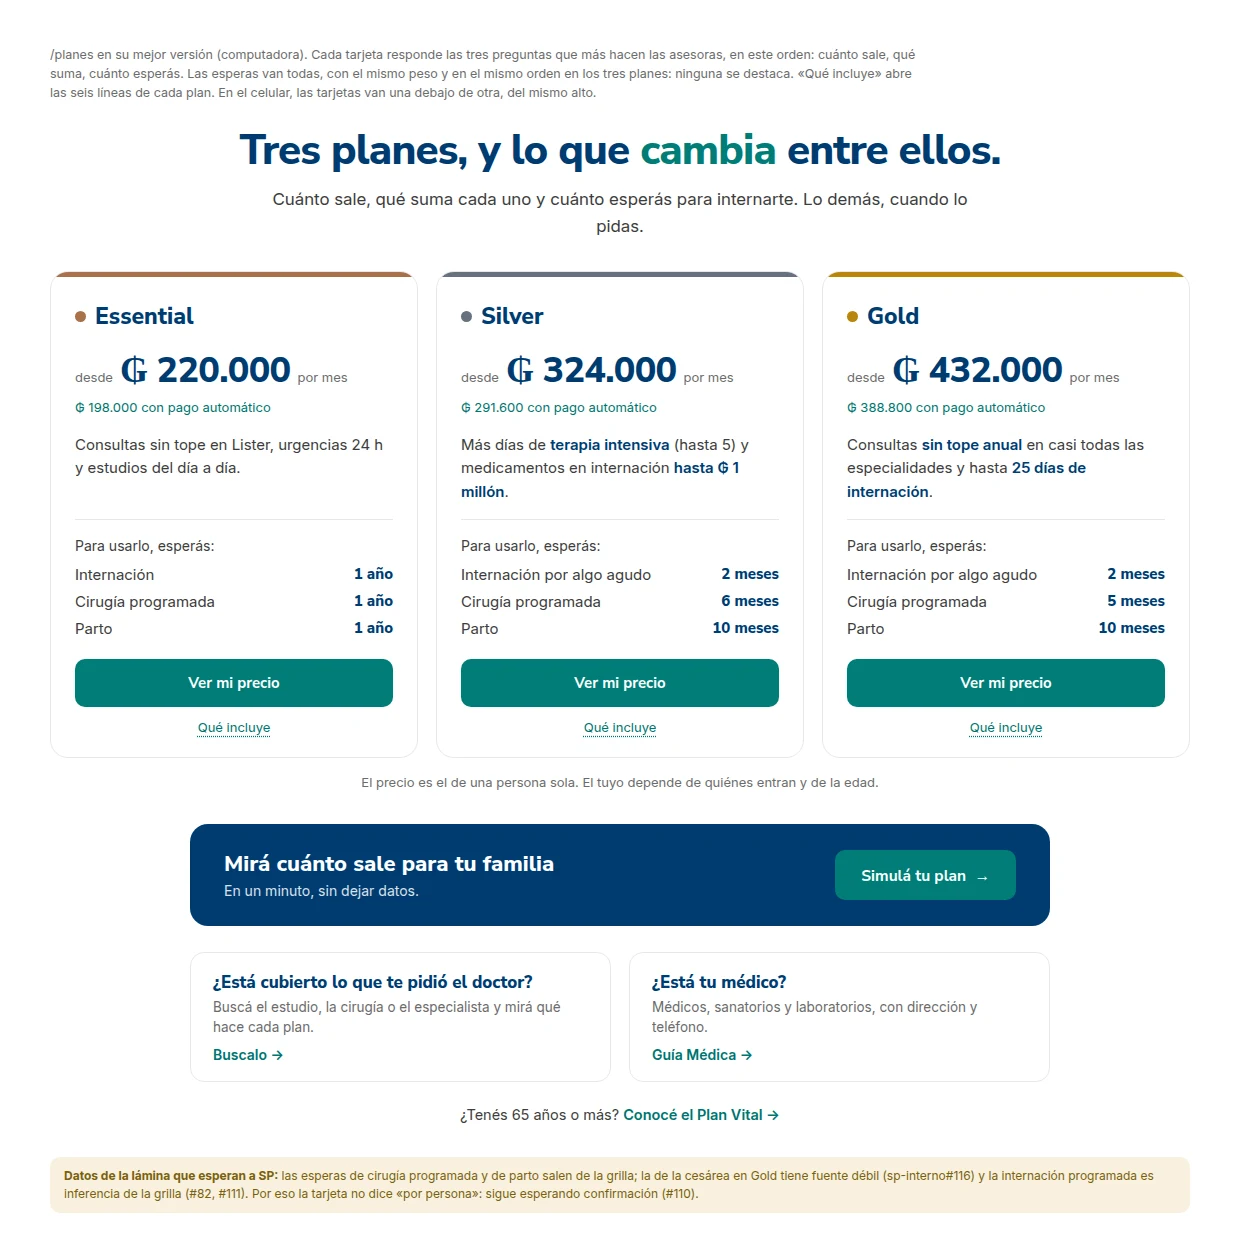
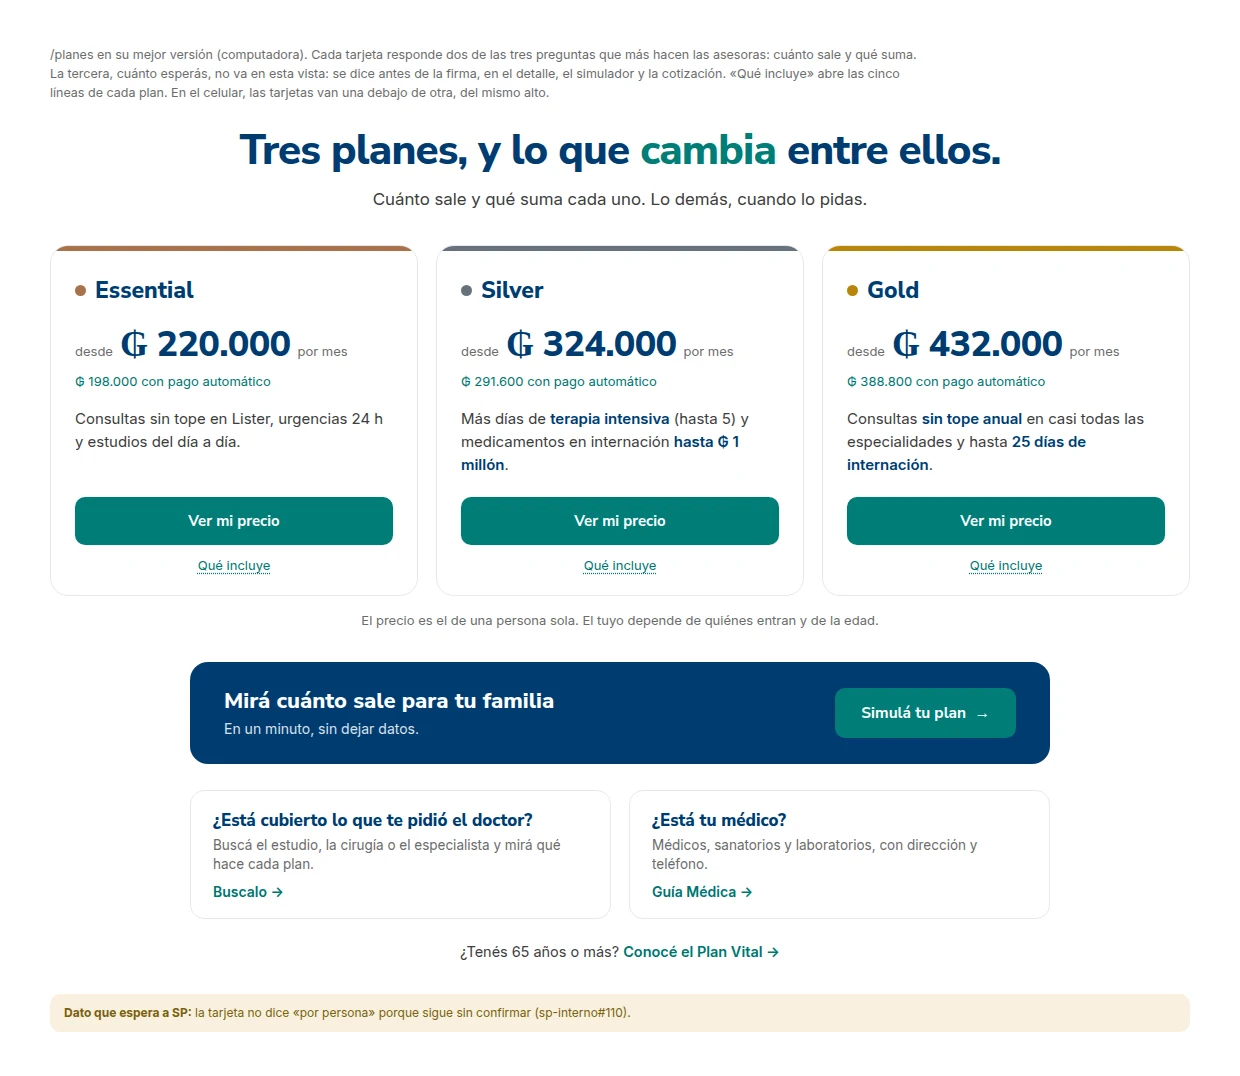
Las esperas fuera de la vista rápida: tarjetas sin esa línea, lámina 70 sin el bloque, mapa de momentos en el HANDOFF
Claude-Session: https://claude.ai/code/session_0161oFsBJwfV3UasCQg1XgMm

Changed region(s): [[0.0306, 0.0307, 0.95, 0.5827], [0.1532, 0.6134, 0.8581, 0.8894], [0.0306, 0.9201, 0.95, 0.9814]]

diff --git a/app/quote.js b/app/quote.js
@@ -125,22 +125,24 @@ const bracket = (a) => (a <= 54 ? 0 : a <= 64 ? 1 : a <= 69 ? 2 : 3);
 // pública del `?plan=` del comparador. Ambas viven ACÁ (fuente única): el botón y
 // el simulador derivan de este mismo array, así el puente no se puede desincronizar.
 // LAS LÍNEAS DE LAS TARJETAS (29/09/2026, lámina 65, opción 1 de Arturo): los
-// MISMOS seis temas y en el mismo orden en los tres planes, para comparar
+// MISMOS cinco temas y en el mismo orden en los tres planes, para comparar
 // leyendo de lado a lado. Lo que cambia va entre `**`: /que-cubre lo pone en
-// negrita. Se sumó «Espera para internarte»: la regla de claridad pide que el
-// año de espera de Essential esté a la vista, no en el contrato. Salieron
-// urgencias y laboratorio/radiografías/fisioterapia de Essential (siguen en el
-// buscador y el comparador del home). La odontología volvió a pedido de Arturo
-// (29/09): es lo que Essential tiene y Silver y Gold no. ⚠ «Por persona» de Silver y
-// Gold espera confirmación de SP (sp-interno#110).
+// negrita. Salieron urgencias y laboratorio/radiografías/fisioterapia de
+// Essential (siguen en el buscador y el comparador del home). La odontología
+// volvió a pedido de Arturo (29/09): es lo que Essential tiene y Silver y Gold
+// no. ⚠ LAS ESPERAS NO VAN EN ESTAS TARJETAS (Arturo, 03/10/2026): el 29/09 se
+// había sumado «Espera para internarte» y se sacó. No es esconderlas: se dicen
+// antes de la firma en otros momentos (detalle, simulador, cotización), no al
+// principio como gancho. Mapa en HANDOFF («Reparto de páginas de planes»).
+// ⚠ «Por persona» de Silver y Gold espera confirmación de SP (sp-interno#110).
 export const plans = () => [
   // Essential: el "desde" es el precio más bajo de sus tres zonas (Interior).
   { name: 'Plan Essential', short: 'Essential', nivel: 'esencial', price: ESSENTIAL.interior.titular, color: 'var(--sp-plan-essential)', tag: 'Para empezar a cuidarte, al precio de tu zona',
-    lines: ['Consultas: **sin tope en Lister**, y hasta 3 por mes en la red', 'Tomografía y resonancia: **por familia**', 'Internación: **habitación privada**, hasta 20 días por familia', 'Espera para internarte: **1 año** desde que te afiliás', 'Terapia intensiva: **hasta 2 días** al año', 'Odontología: **sin costo, solo en Lister**: consulta, controles, extracciones simples y limpieza'] },
+    lines: ['Consultas: **sin tope en Lister**, y hasta 3 por mes en la red', 'Tomografía y resonancia: **por familia**', 'Internación: **habitación privada**, hasta 20 días por familia', 'Terapia intensiva: **hasta 2 días** al año', 'Odontología: **sin costo, solo en Lister**: consulta, controles, extracciones simples y limpieza'] },
   { name: 'Plan Silver', short: 'Silver', nivel: 'equilibrio', price: TARIFAS.silver.solo[0], color: 'var(--sp-plan-silver)', tag: 'Resonancia y tomografía por persona',
-    lines: ['Consultas: **sin tope en la mitad** de las especialidades, 5 o 6 al año en el resto', 'Tomografía y resonancia: **por persona**', 'Internación: **semi-suite**, hasta 20 días al año', 'Espera para internarte: **2 meses** si es por algo agudo', 'Terapia intensiva: **hasta 5 días** al año', 'Odontología: **la atención del dentista no entra**'] },
+    lines: ['Consultas: **sin tope en la mitad** de las especialidades, 5 o 6 al año en el resto', 'Tomografía y resonancia: **por persona**', 'Internación: **semi-suite**, hasta 20 días al año', 'Terapia intensiva: **hasta 5 días** al año', 'Odontología: **la atención del dentista no entra**'] },
   { name: 'Plan Gold', short: 'Gold', nivel: 'amplia', price: TARIFAS.gold.solo[0], color: 'var(--sp-plan-gold)', tag: 'La cobertura más amplia',
-    lines: ['Consultas: **sin tope anual** en casi todas las especialidades', 'Tomografía y resonancia: **por persona**, con menos espera en la tomografía', 'Internación: **semi-suite**, hasta 25 días al año', 'Espera para internarte: **2 meses** si es por algo agudo', 'Terapia intensiva: **hasta 6 días** al año', 'Odontología: **la atención del dentista no entra**'] },
+    lines: ['Consultas: **sin tope anual** en casi todas las especialidades', 'Tomografía y resonancia: **por persona**, con menos espera en la tomografía', 'Internación: **semi-suite**, hasta 25 días al año', 'Terapia intensiva: **hasta 6 días** al año', 'Odontología: **la atención del dentista no entra**'] },
 ];
 
 // El puente comparador → simulador, en un solo lugar. La clave pública del

diff --git a/HANDOFF.md b/HANDOFF.md
@@ -120,8 +120,8 @@ convertir»*.
 - **Base medida:** las 4 asesoras de ventas coinciden en precio, diferencia entre
   planes y espera (4 de 4); qué cubre, 3 de 4; descuentos, todo el país y «¿está
   mi médico?», 2 de 4 (`sp-interno/project/PREGUNTAS-FRECUENTES-asesores-2026-07.md`).
-- **`/planes`** es donde se decide: tarjetas del mismo alto con precio, qué suma y
-  cuánto esperás para internarte; simulador; dos puertas; una línea para Vital.
+- **`/planes`** es donde se decide: tarjetas del mismo alto con precio y qué suma;
+  simulador; dos puertas; una línea para Vital. **Sin esperas** (ver «Las esperas»).
 - **`/que-cubre`** contesta «¿está cubierto lo que me pidió el doctor?»: buscador
   arriba y el detalle a un toque. **Pendiente para que convierta:** los resultados
   del buscador no tienen ningún enlace al precio ni a WhatsApp (medido en
@@ -130,6 +130,30 @@ convertir»*.
 - **Vital va en página propia y corta** (65 o más, un solo nivel, esperas propias).
   Recomendación mía, **no confirmada**: Arturo había pedido a Vital dentro de
   `/que-cubre`.
+- **Las esperas (carencias), decisión de Arturo del 02 y 03/10/2026.** *«Mostrar
+  esperas cortas atrae al cliente que me preocupa y que no quiero tener.»* Y: *«No
+  estoy en contra de mostrar los tiempos de carencia antes de la firma, pero
+  tampoco al principio como hook para la compra. Tiene que ser en otros momentos u
+  otras vistas. Tarde o temprano sí o sí se comunica.»* La primera versión de la
+  lámina 70 ponía «2 meses» en grande y los plazos largos en letra chica: era
+  engañosa por el énfasis (Arturo: *«la lámina sí fue deshonesta»*). Reglas:
+  **ninguna espera en la vista rápida** (home y `/planes`), **ninguna se usa de
+  gancho**, y **todas las que se muestran van con el mismo peso y orden**.
+  Riesgo del rubro a cuidar: afiliarse para usar el plan y dejar de pagar. No hay
+  dato propio todavía: se pidió a SP el dato y las reglas vigentes (issue de
+  `sp-interno`).
+  **Mapa de momentos en que se comunican, antes de la firma:**
+
+  | # | Momento | Qué se dice | Estado |
+  |---|---|---|---|
+  | 1 | Vista rápida (home, `/planes`) | Nada | Hecho en las tarjetas; falta decidir la fila «Tiempo de espera» del comparador del home (la pidió Arturo el 26/09) |
+  | 2 | Vista detallada (`/que-cubre`) | Todas, parejas | Existe (tabla de servicios) |
+  | 3 | Simulador, antes de dejar datos | Las del plan que le tocó | Existe |
+  | 4 | Cotización por WhatsApp | «Cuánto esperás para usar cada cobertura» | Existe |
+  | 5 | Conversación con la asesora, antes de cerrar | Dichas en voz alta | A confirmar con SP (¿hay guion?) |
+  | 6 | Contrato, antes de firmar | Confirmación expresa | A confirmar con SP y Legal |
+  | 7 | Bienvenida | Fechas reales desde las que se usa cada cobertura | Idea, no existe |
+
 - **Medir desde el primer día** con `track()` (sin datos personales): hoy el sitio
   no mide nada (sp-interno#86).
 - **Frenan la frase «qué suma»:** #110 («por persona») y #111 (esperas al revés).
@@ -155,8 +179,8 @@ planes. No uses el etiquetado característico de la IA porfa.»*
 - **Sin el «etiquetado de la IA»**: nada de rótulos chicos en mayúsculas sobre
   los títulos, píldoras ni marcadores tipo «▲ mejora». La regla de etiquetas de
   `CLAUDE.md` ya pedía podar los que repiten el título.
-- **Las tarjetas** ya están: los mismos seis temas y el mismo alto (opción 1,
-  lámina 65, publicadas el 29/09).
+- **Las tarjetas** ya están: los mismos cinco temas y el mismo alto (opción 1,
+  lámina 65, publicadas el 29/09; sin la línea de esperas desde el 03/10).
 - **Pendientes de Arturo antes de construir la página entera:** qué pasa con
   `/planes` (recomendación: vista corta con tarjetas y simulador, sin tabla
   repetida), si Vital es cuarta columna o bloque aparte (recomendación: bloque
@@ -206,15 +230,14 @@ la vista, lo fino a un toque, nada que obligue a ir y volver.
 
 **Las tarjetas de planes de `/que-cubre` (29/09/2026, opción 1 de la lámina 65;
 BITACORA cap. 128).** Arturo eligió la 1 (*«andá con la opción 1»*): los
-**mismos seis temas, en el mismo orden, en los tres planes** (consultas,
-tomografía y resonancia, internación, espera para internarte, terapia
-intensiva, odontología), un check y una frase, lo que cambia en negrita, y **tarjetas del
+**mismos cinco temas, en el mismo orden, en los tres planes** (consultas,
+tomografía y resonancia, internación, terapia intensiva, odontología), un check y una frase, lo que cambia en negrita, y **tarjetas del
 mismo alto** también apiladas (`.planes-grid{grid-auto-rows:1fr}`, medido a
 1440, 1000, 390 y 360 px). El texto vive en `plans()` de `app/quote.js`
 (`**…**` marca la negrita; lo pinta `Landing.jsx`). Es un cambio chico y no
 reabre la guarda de arriba: el mismo contenido sirve a la comparativa nueva.
-- **Se sumó «Espera para internarte»** (no estaba en la lámina): sin ella, el
-  año de espera de Essential quedaba solo en el contrato (regla de claridad).
+- ~~Se sumó «Espera para internarte»~~ **Revertido el 03/10/2026** (Arturo): las
+  esperas no van en las tarjetas; ver «Las esperas» más abajo.
 - **Salieron de la tarjeta de Essential** urgencias 24 h y
   laboratorio/radiografías/fisioterapia sin espera; siguen en el buscador y el
   comparador del home. **La odontología volvió** a pedido de Arturo (*«sumá la

diff --git a/docs/diseno/README.md b/docs/diseno/README.md
@@ -1689,20 +1689,21 @@ revés (#111) frenan las tres.
 
 ### 70 · `/planes` con tres respuestas y pocas herramientas
 
-![/planes: tres tarjetas del mismo alto con precio, qué suma y cuánto esperás; el simulador, dos puertas y una línea para Vital](img/2026-10-02-planes-pagina-tres-respuestas.webp)
+![/planes: tres tarjetas del mismo alto con precio y qué suma; el simulador, dos puertas y una línea para Vital](img/2026-10-02-planes-pagina-tres-respuestas.webp)
 
 **Qué muestra.** Arturo, 02/10/2026: *«Tenemos que tomar una decisión de qué pocas
 herramientas vamos a usar para mostrar algo que tenga alto impacto… Tengo el
 presentimiento de que todavía estamos ofreciendo demasiadas cosas»*. Salió de lo
 que preguntan las asesoras (4 de 4: precio, diferencia entre planes y espera, en
 `sp-interno/project/PREGUNTAS-FRECUENTES-asesores-2026-07.md`): cada tarjeta
-responde esas tres, en ese orden; «Qué incluye» abre las seis líneas. **Las esperas
-van todas, en el mismo orden y con el mismo peso en los tres planes** (internación,
-cirugía programada, parto): ninguna se destaca. La primera versión ponía «2 meses»
-en grande y los plazos largos en letra chica: engañosa por el énfasis (Arturo,
-02/10: *«la lámina sí fue deshonesta»*). Se detectó al discutir el riesgo de
-afiliarse para usar el plan y dejar de pagar, y se corrigió. Debajo, el simulador y dos puertas (el buscador y la Guía
-Médica), y una línea para Vital. Sin rótulos ni píldoras.
+responde dos: cuánto sale y qué suma; «Qué incluye» abre las cinco líneas. **La
+espera no va en esta vista** (Arturo, 03/10: *«no estoy en contra de mostrar los
+tiempos de carencia antes de la firma, pero tampoco al principio como hook»*): se
+dice en el detalle, el simulador y la cotización. La primera versión ponía «2
+meses» en grande y los plazos largos en letra chica: engañosa por el énfasis
+(Arturo, 02/10: *«la lámina sí fue deshonesta»*). Debajo, el simulador y dos
+puertas (el buscador y la Guía Médica), y una línea para Vital. Sin rótulos ni
+píldoras.
 
 **Qué se decidió.** El reparto: `/planes` es donde se decide, `/que-cubre` responde
 «¿está cubierto?» con el detalle a un toque, y Vital va aparte. Arturo: *«Me parece

diff --git a/BITACORA.md b/BITACORA.md
@@ -4547,3 +4547,30 @@ original, no empuja al precio.
   estructuras) se empezó por sumar.** El método nuevo empieza por decidir qué no
   va.
 
+## Capítulo 131 — Las esperas, cuándo se dicen (03/10/2026)
+
+**Qué intentamos.** El 29/09 se sumó «Espera para internarte» a las tarjetas de
+`/que-cubre` (cap. 128), porque la regla de claridad pide que el año de espera de
+Essential no esté solo en el contrato. El 02/10, la lámina 70 de `/planes` puso
+las esperas debajo del precio, con «2 meses» en grande.
+
+**Qué pasó.** Arturo marcó dos cosas. Primera: la lámina era engañosa por el
+énfasis (*«la lámina sí fue deshonesta»*): el plazo corto en grande y los largos en
+chica. Segunda, sobre el riesgo de que alguien se afilie para usar el plan y dejar
+de pagar: *«Mostrar esperas cortas atrae al cliente que me preocupa y que no
+quiero tener»*. Y precisó: *«No estoy en contra de mostrar los tiempos de carencia
+antes de la firma, pero tampoco al principio como hook para la compra… Tarde o
+temprano sí o sí se comunica.»* Se sacó la línea de las tarjetas ya publicadas y el
+bloque de la lámina.
+
+**Qué aprendimos.**
+- **La regla de claridad no dice «a la vista y al principio».** Dice «antes de que
+  se lleve una sorpresa». Se puede cumplir con **momentos planificados** (detalle,
+  simulador, cotización, asesora, contrato) sin hacer de la espera un anzuelo.
+- **Mostrar algo con desigual peso es una forma de decir otra cosa.** Todas con el
+  mismo peso, o ninguna en esa vista.
+- **El efecto sobre quién se afilia es un criterio de negocio de Arturo, no un dato
+  medido.** Se anota con su nombre y se pide a SP el dato.
+- **Quedó una decisión suya pendiente:** la fila «Tiempo de espera» del comparador
+  del home, que él mismo pidió el 26/09.
+
